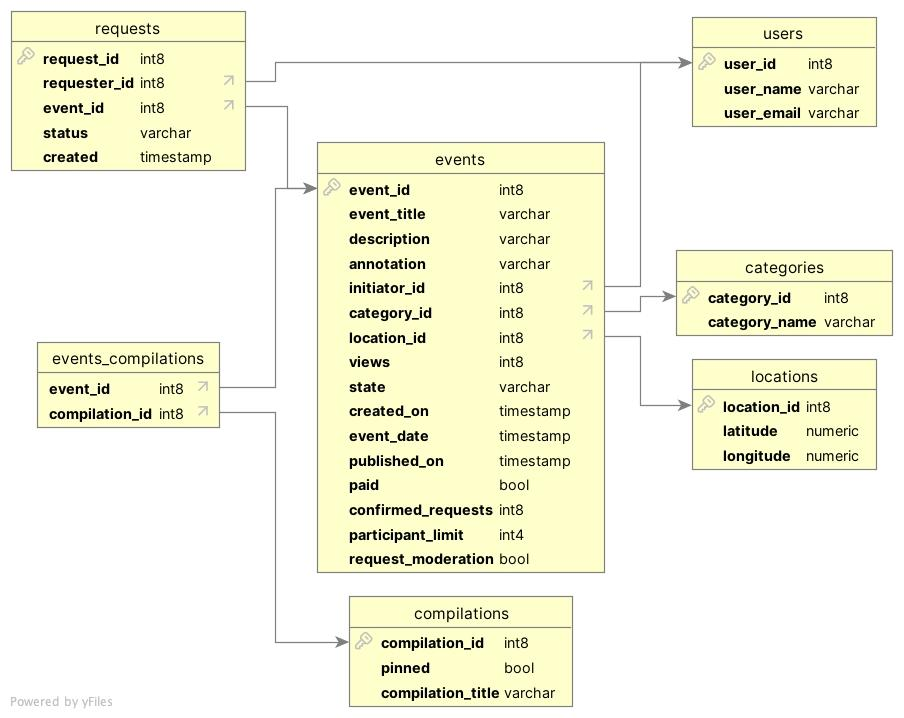
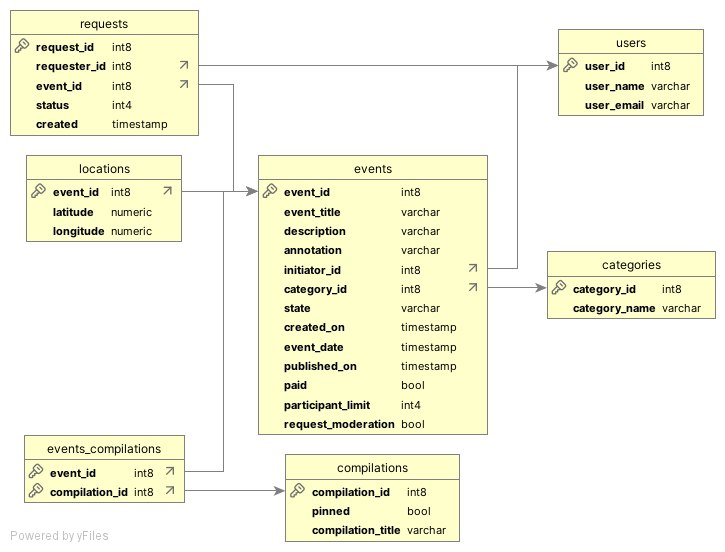
add-location-model

diff --git a/main-service/src/main/java/ru/practicum/main/service/event/model/Event.java b/main-service/src/main/java/ru/practicum/main/service/event/model/Event.java
@@ -10,6 +10,7 @@ import lombok.Setter;
 import lombok.experimental.FieldDefaults;
 import ru.practicum.main.service.category.model.Category;
 import ru.practicum.main.service.event.enums.EventState;
+import ru.practicum.main.service.event.location.model.Location;
 import ru.practicum.main.service.user.model.User;
 
 import java.time.LocalDateTime;
@@ -29,27 +30,25 @@ public class Event {
     @Column(name = "event_id")
     Long id;
 
-    @Column(name = "event_title", nullable = false, length = 155)
+    @Column(name = "event_title", nullable = false, length = 120)
     String title;
 
-    @Column(nullable = false, length = 3000)
+    @Column(nullable = false, length = 7000)
     String description;
 
-    @Column(nullable = false, length = 500)
+    @Column(nullable = false, length = 2000)
     String annotation;
 
     @ManyToOne
-    @JoinColumn(name = "initiator_id")
+    @JoinColumn(name = "initiator_id", nullable = false)
     User initiator;
 
     @ManyToOne
-    @JoinColumn(name = "category_id")
+    @JoinColumn(name = "category_id", nullable = false)
     Category category;
 
-    Long views;
-
     @Column(nullable = false, length = 50)
-    @Enumerated(EnumType.STRING)
+    @Enumerated(EnumType.ORDINAL)
     EventState state;
 
     @Column(name = "created_on")
@@ -64,13 +63,13 @@ public class Event {
     @Column(nullable = false)
     Boolean paid;
 
-    @Column(name = "confirmed_requests")
-    Long confirmedRequests;
-
     @Column(name = "participant_limit")
     Integer participantLimit;
 
     @Column(name = "request_moderation")
     Boolean requestModeration;
+
+    @OneToOne(mappedBy = "event")
+    Location location;
 
 }

diff --git a/main-service/src/main/java/ru/practicum/main/service/event/location/model/Location.java b/main-service/src/main/java/ru/practicum/main/service/event/location/model/Location.java
@@ -1,0 +1,44 @@
+package ru.practicum.main.service.event.location.model;
+
+import jakarta.persistence.Column;
+import jakarta.persistence.Entity;
+import jakarta.persistence.Id;
+import jakarta.persistence.JoinColumn;
+import jakarta.persistence.MapsId;
+import jakarta.persistence.OneToOne;
+import jakarta.persistence.Table;
+import lombok.AccessLevel;
+import lombok.AllArgsConstructor;
+import lombok.Builder;
+import lombok.Getter;
+import lombok.NoArgsConstructor;
+import lombok.Setter;
+import lombok.experimental.FieldDefaults;
+import ru.practicum.main.service.event.model.Event;
+
+@Entity
+@Table(name = "locations")
+@Getter
+@Setter
+@Builder
+@NoArgsConstructor
+@AllArgsConstructor
+@FieldDefaults(level = AccessLevel.PRIVATE)
+public class Location {
+
+    @Id
+    @Column(name = "event_id", nullable = false)
+    Long eventId;
+
+    @Column(nullable = false, precision = 9, scale = 6)
+    Double latitude;
+
+    @Column(nullable = false, precision = 9, scale = 6)
+    Double longitude;
+
+    @OneToOne
+    @MapsId
+    @JoinColumn(name = "eventId")
+    Event event;
+
+}

diff --git a/main-service/src/main/java/ru/practicum/main/service/user/model/User.java b/main-service/src/main/java/ru/practicum/main/service/user/model/User.java
@@ -34,10 +34,10 @@ public class User {
     @Column(name = "user_id")
     Long id;
 
-    @Column(name = "user_name", nullable = false)
+    @Column(name = "user_name", nullable = false, length = 250)
     String name;
 
-    @Column(name = "user_email", nullable = false, unique = true)
+    @Column(name = "user_email", nullable = false, unique = true, length = 254)
     String email;
 
     @OneToMany(mappedBy = "initiator")

diff --git a/main-service/src/main/java/ru/practicum/main/service/request/model/Request.java b/main-service/src/main/java/ru/practicum/main/service/request/model/Request.java
@@ -38,7 +38,7 @@ public class Request {
     Event event;
 
     @Column(nullable = false, length = 120)
-    @Enumerated(EnumType.STRING)
+    @Enumerated(EnumType.ORDINAL)
     RequestStatus status;
 
     @Column(nullable = false)

diff --git a/main-service/src/main/java/ru/practicum/main/service/request/enums/RequestStatus.java b/main-service/src/main/java/ru/practicum/main/service/request/enums/RequestStatus.java
@@ -4,5 +4,4 @@ public enum RequestStatus {
     PENDING,
     CONFIRMED,
     REJECTED,
-    CANCELED
 }
